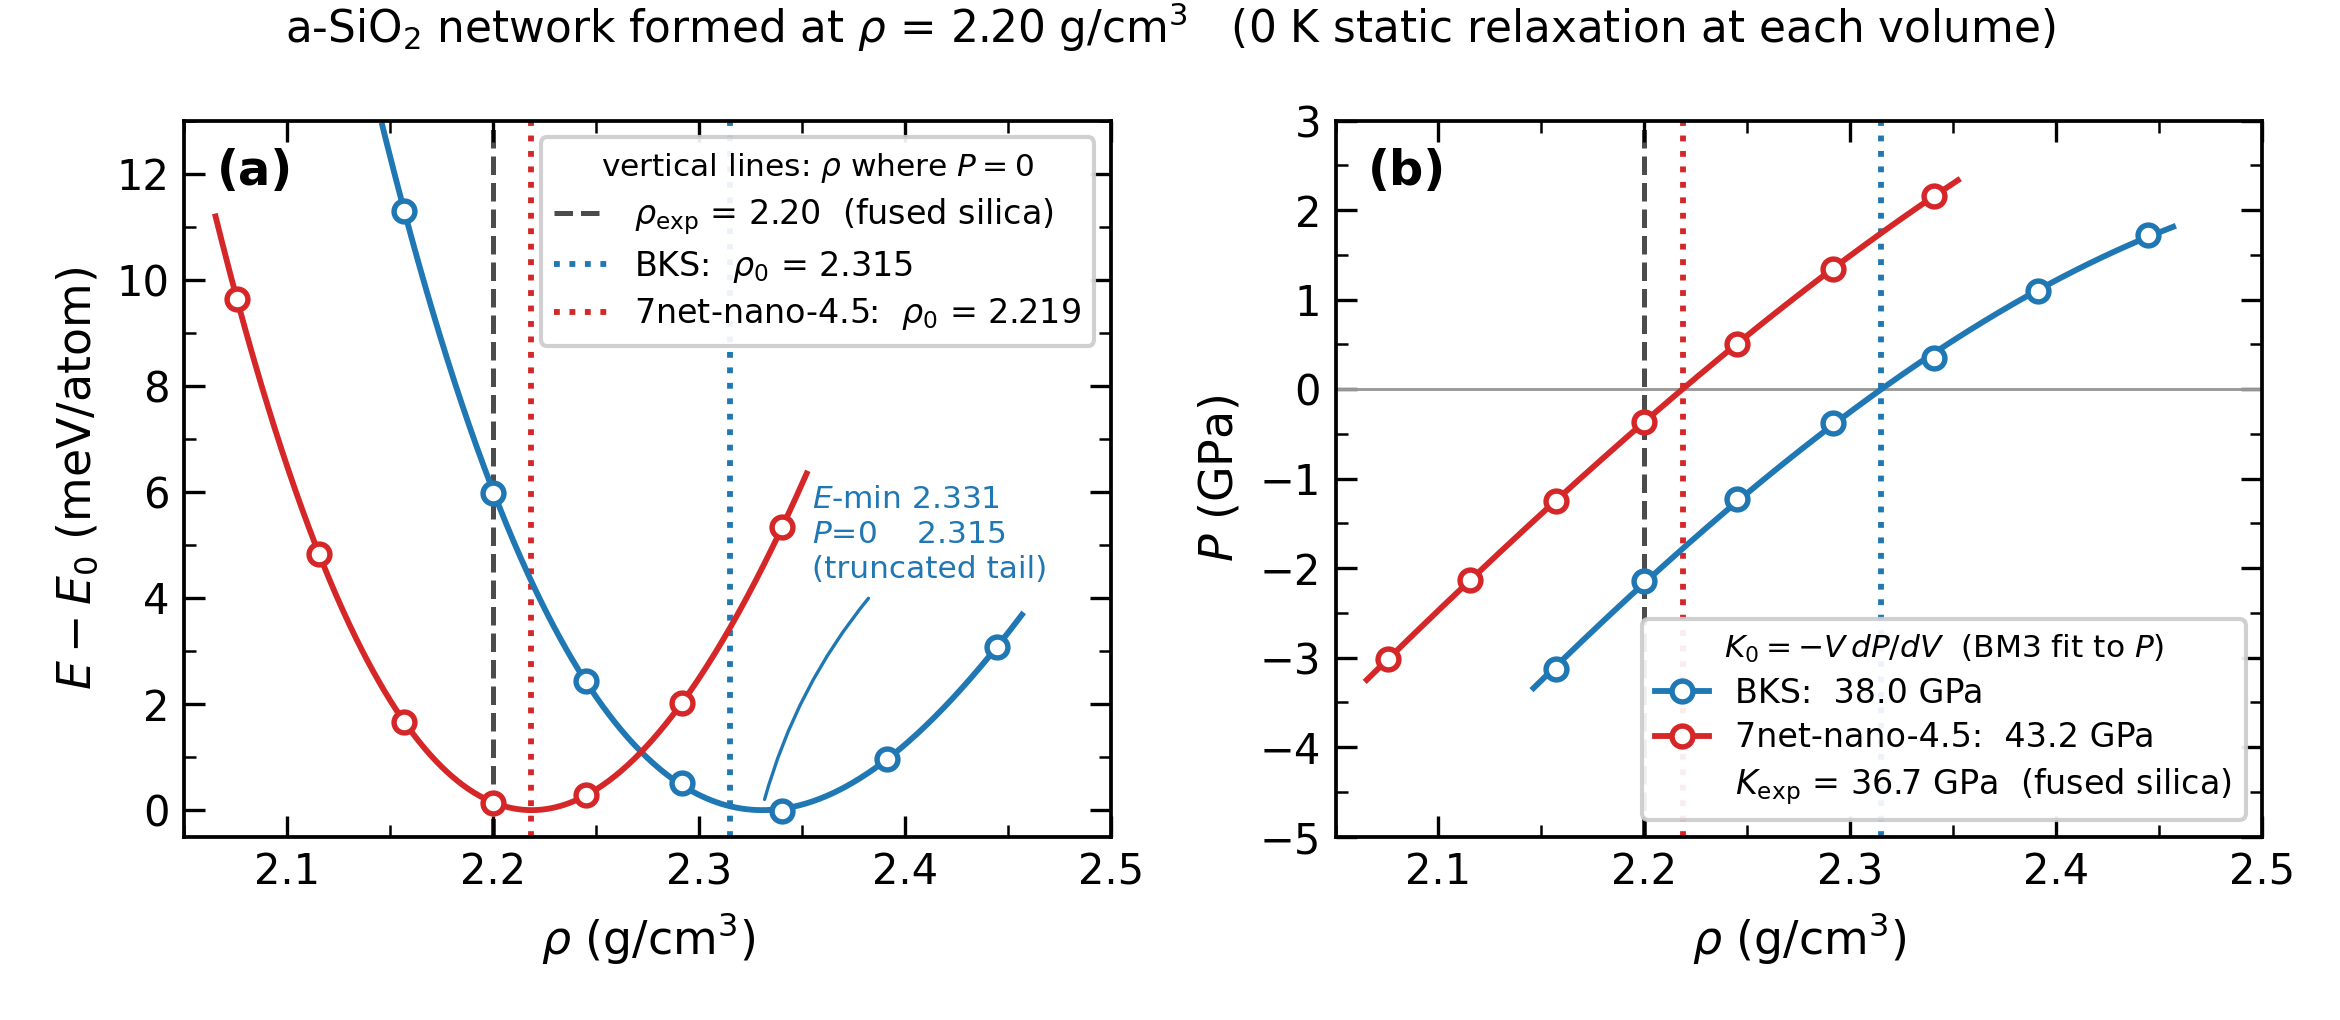
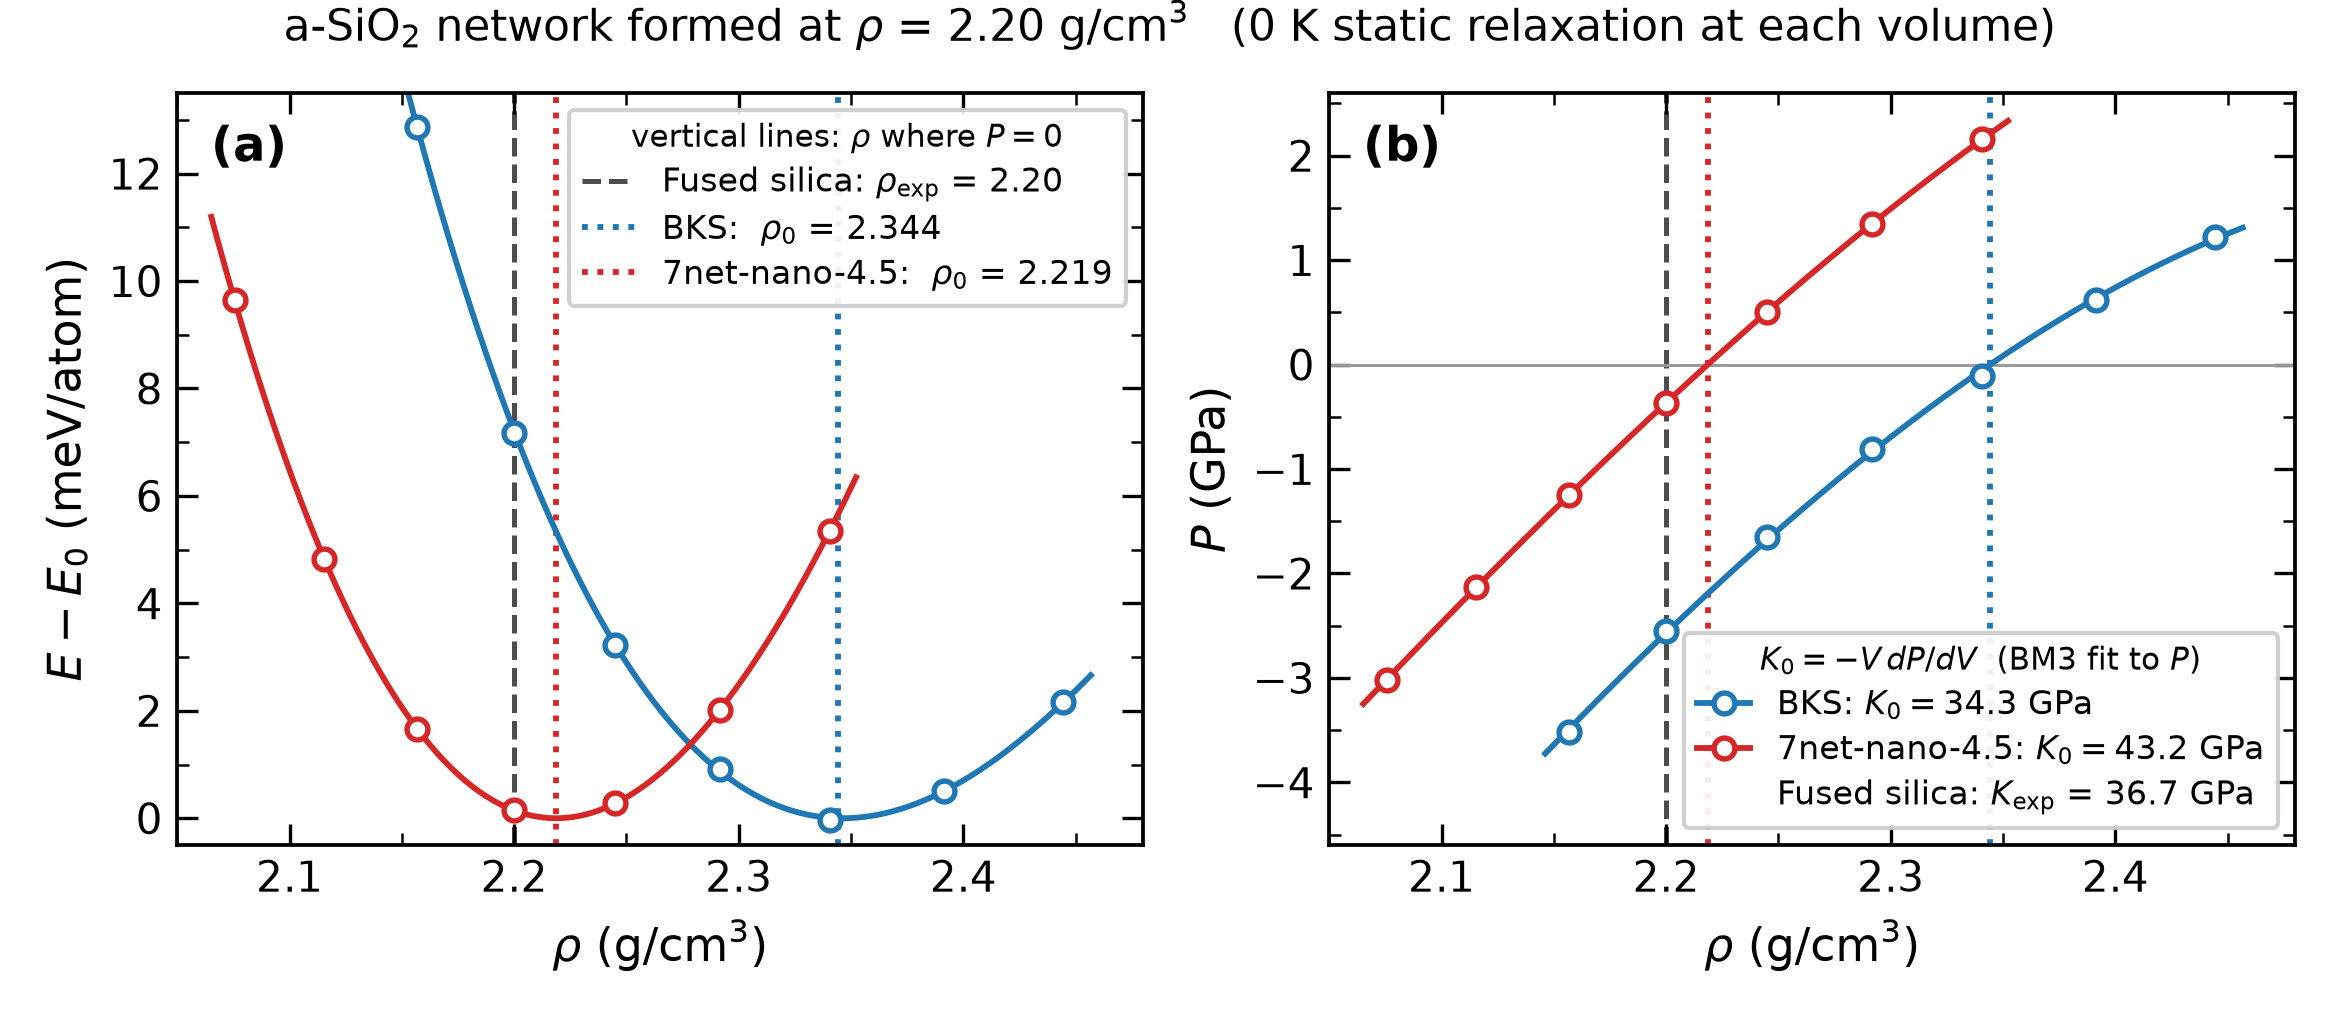
Switch BKS EOS reporting to tail-on; my tail-off argument was circular
I had chosen tail OFF on two grounds and both were wrong.

1. "The structure was made by a tail-off MD, so keep the same potential."
   Void: the tail correction is a function of V only and contributes nothing to
   forces. The maxf column is bit-identical between the two scans at all seven
   volumes, so the minimised structure at each volume is literally the same
   structure. Which MD produced the configuration is irrelevant to this
   calculation.

2. "Tail-off 0 K virial 2.3151 agrees with the 300 K NPT 2.3119 to 0.14 %."
   Circular: both use the same bookkeeping, so of course they agree. Had the NPT
   been run with the tail on it would have landed near 2.34 as well. Agreement
   within one convention is not evidence for that convention.

Positive case for tail ON:

3. BKS as published (van Beest 1990) has no cutoff. Truncating at 10 A is an
   implementation shortcut, and the tail correction restores what the truncation
   discarded rather than modifying the potential. Applying it when computing
   pressure with a truncated dispersion term is textbook practice.
4. The one objective quality metric available -- agreement between the
   independent E(V) and P(V) fits -- favours it strongly: rho0 0.673 % -> 0.087 %,
   K0 7.2 % -> 3.0 %.

Re-ran the 300 K NPT with the tail on (new in.npt_tail, 20 ps re-equilibration +
100 ps production, ~4 min) so the whole project uses one convention:
rho = 2.3401 averaged over the production run, 0.17 % from the 0 K virial value
[…]

diff --git a/04_analysis/src/fig_density.py b/04_analysis/src/fig_density.py
@@ -71,8 +71,11 @@ def bm3_P(V, V0, K0, Kp):            # bar 단위로 바로 뱉는다
 
 
 RUN = ROOT / "02_run/s2_relax"
-SET = [("BKS", "tab:blue", RUN / "ev_bks_scan.txt"),
+# ★ BKS 는 **tail 보정 켠 쪽**(ev_bks_scan_tail.txt)이 보고값이다. 근거는 위 docstring.
+#   tail off 원자료도 남아 있다(ev_bks_scan.txt) — 절단 관례의 계통오차 크기를 재는 용도.
+SET = [("BKS", "tab:blue", RUN / "ev_bks_scan_tail.txt"),
        ("7net-nano-4.5", "tab:red", RUN / "ev220_scan.txt")]
+RHO_BKS_NPT = 2.3401        # 300 K NPT (tail on) 100 ps 시간평균, in.npt_tail
 
 fit = {}
 for lab, col, fn in SET:
@@ -124,26 +127,19 @@ for lab, v in fit.items():
     a.plot(rho_of(v["V"]), (v["E"] - E0) / N * 1e3, "o", ms=5, mfc="w",
            mec=v["col"], mew=1.3, zorder=3)
 a.set_xlabel(r"$\rho$ (g/cm$^3$)"); a.set_ylabel(r"$E-E_0$ (meV/atom)")
-a.set_ylim(-0.5, 13)
+a.set_ylim(-0.5, 13.5)
 # 범례 핸들은 마커가 아니라 **세로선** 이다. 세 선이 무엇인지가 이 패널의 요점이므로.
 a.legend([hx[0], hline["BKS"], hline["7net-nano-4.5"]],
-         [rf"$\rho_{{\rm exp}}$ = {RHO_EXP:.2f}  (fused silica)",
+         [rf"Fused silica: $\rho_{{\rm exp}}$ = {RHO_EXP:.2f}",
           rf"BKS:  $\rho_0$ = {RHO0['BKS']:.3f}",
           rf"7net-nano-4.5:  $\rho_0$ = {RHO0['7net-nano-4.5']:.3f}"],
          loc="upper right", framealpha=0.92, fontsize=8, handlelength=1.6,
          borderpad=0.4, labelspacing=0.35,
          title=r"vertical lines: $\rho$ where $P=0$", title_fontsize=7.5)
 
-# ★ BKS 만 E 곡선의 최소(파란 점선의 오른쪽)가 P=0 위치와 어긋난다. 그게 절단 artifact 다.
-#   그림에 그대로 보이므로 오해하지 않도록 화살표로 명시한다. (7net 은 0.008 % 라 안 보인다)
-#   간격이 0.7 % 라 양방향 화살표로는 안 보인다 → 최소점을 지시선으로 가리키고 값을 적는다.
-rE_bks = rho_of(fit["BKS"]["pe"][1])
-a.annotate(f"$E$-min {rE_bks:.3f}\n$P$=0    {RHO0['BKS']:.3f}\n(truncated tail)",
-           xy=(rE_bks, 0.05), xytext=(2.355, 5.2),
-           fontsize=7.5, c="tab:blue", ha="left", va="center",
-           multialignment="left", linespacing=1.25,
-           arrowprops=dict(arrowstyle="-", lw=0.8, color="tab:blue",
-                           connectionstyle="arc3,rad=0.15"))
+# tail 보정 전에는 BKS 의 E 최소가 P=0 위치와 0.67 % 어긋나 눈에 보였고, 그걸 지시선으로
+# 표시했었다. 보정 후 0.087 % 로 줄어 육안 구분이 안 되므로 주석을 뺐다.
+# (절단 artifact 의 정량 논의는 RESULTS.md §2 와 02_run/s2_relax/NOTE.md 에.)
 
 # ---------- (b) P-V ----------
 b.axhline(0, ls="-", lw=0.7, c="0.6")
@@ -156,23 +152,27 @@ for lab, v in fit.items():
     # BKS 는 E(V)/P(V) 두 경로가 7.2 % 벌어져 계통오차가 통계오차의 20배다.
     # 그림에 ± 를 박으면 그 정밀도가 실재하는 것처럼 읽힌다. 불확도 논의는 RESULTS.md §2 에.
     b.plot([], [], "o-", c=v["col"], mfc="w", mew=1.3, ms=5,
-           label=rf"{lab}:  {K:.1f} GPa")
+           label=rf"{lab}: $K_0 =  {K:.1f}$ GPa")
 # rho_exp 는 (a) 범례가 이미 설명한다(같은 figure) → 중복 제거.
 # 대신 (a) 의 rho_exp 와 대칭이 되게 K_exp 를 적는다.
-b.plot([], [], " ", label=rf"$K_{{\rm exp}}$ = {K_EXP} GPa  (fused silica)")
+b.plot([], [], " ", label=rf"Fused silica: $K_{{\rm exp}}$ = {K_EXP} GPa")
 b.set_xlabel(r"$\rho$ (g/cm$^3$)"); b.set_ylabel(r"$P$ (GPa)")
-b.set_ylim(-5.0, 3.0)   # 범례 자리. 폰트를 줄이기보다 축을 넓히는 쪽 (가독성 우선)
+b.set_ylim(-4.6, 2.6)   # 범례 자리. 폰트를 줄이기보다 축을 넓히는 쪽 (가독성 우선)
 b.legend(loc="lower right", framealpha=0.92, fontsize=8, handlelength=1.6,
          borderpad=0.4, labelspacing=0.35,
          title=r"$K_0 = -V\,dP/dV$  (BM3 fit to $P$)", title_fontsize=7.5)
 
 for k, a_ in enumerate(ax):
-    a_.set_xlim(2.05, 2.50)   # 우측 여유 = (b) 범례, (a) 범례 자리
+    a_.set_xlim(2.05, 2.48)   # 우측 여유 = (b) 범례, (a) 범례 자리
     a_.xaxis.set_minor_locator(AutoMinorLocator(2))
     a_.yaxis.set_minor_locator(AutoMinorLocator(2))
     a_.text(0.035, 0.91, "(a)" if k == 0 else "(b)", transform=a_.transAxes,
             fontsize=11.5, fontweight="bold")
 
+# tail 보정 여부는 그림에 적지 않는다 — 결론(밀도·탄성률 3자 비교)에서 시선을 뺏는다.
+# 기록은 이 스크립트 docstring, RESULTS.md §2, s2_relax/NOTE.md 세 곳에 있다.
+# ※ 이 그림만 따로 슬라이드에 쓸 땐 구두로라도 "tail 보정 적용"을 언급할 것.
+#   문헌의 BKS 값과 비교할 때 관례가 다르면 K0 가 10 % 어긋난다.
 fig.suptitle(r"a-SiO$_2$ network formed at $\rho$ = 2.20 g/cm$^3$   "
              r"(0 K static relaxation at each volume)", fontsize=10.5, y=1.0)
 fig.tight_layout(rect=[0, 0, 1, 1.05])
@@ -198,3 +198,7 @@ print(f"실험 대비:  rho0  BKS {RHO0['BKS']:.4f} ({100*(RHO0['BKS']/RHO_EXP-1
 KB, K7 = fit["BKS"]["pp"][1]*EV2BAR/1e4, fit["7net-nano-4.5"]["pp"][1]*EV2BAR/1e4
 print(f"            K0    BKS {KB:.2f} ({100*(KB/K_EXP-1):+.1f} %)"
       f"   7net {K7:.2f} ({100*(K7/K_EXP-1):+.1f} %)     exp {K_EXP} GPa")
+print(f"\nMLIP 가 줄인 밀도 오차 배수: "
+      f"{abs(RHO0['BKS']/RHO_EXP-1)/abs(RHO0['7net-nano-4.5']/RHO_EXP-1):.1f}x")
+print(f"정합 확인: BKS 0 K virial {RHO0['BKS']:.4f} vs 300 K NPT {RHO_BKS_NPT:.4f}"
+      f"  ({100*abs(RHO_BKS_NPT/RHO0['BKS']-1):.2f} % — 열팽창 무시 가능)")

diff --git a/05_doc/STATUS.md b/05_doc/STATUS.md
@@ -15,7 +15,7 @@ BKS(고전 포텐셜)로 만든 비정질 SiO₂에 범용 MLIP **SevenNet-Nano*
 | S0 환경 구축 | **완료** — LAMMPS + `pair_style e3gnn` 빌드·검증·배포 |
 | S0′ 구조 재생성 | **완료** — 1차 melt-quench 실패 진단 후 ρ=2.20 고정 NVT로 재수행 |
 | S1 sanity + 속도 실측 | **완료** — 단일점, ASE 교차검증, 랭크 비교, 속도, cutoff 스윕, 병렬 확장성 |
-| S2′ 구조 이완 + E–V | **완료** — ρ₀ = 2.2187, K₀ = 43.1 GPa, virial 정합성 검증 |
+| S2′ 구조 이완 + E–V | **완료** — 7net ρ₀ 2.2185 / K₀ 43.2, BKS(tail on) 2.3442 / 34.3 |
 | S3′ RDF + 결합각 | **완료** — 300 K NVT 5 ps, g(r)·BAD·ring 통계, AIMD digitize 비교 |
 | S4 짧은 MD | 생략 (S3′가 대체) |
 | S5 정리 | **진행 중** — 그림 5장·RESULTS.md 완료, 남은 항목은 아래 |
@@ -61,12 +61,14 @@ BKS(고전 포텐셜)로 만든 비정질 SiO₂에 범용 MLIP **SevenNet-Nano*
 9. **melt-quench 는 부피고정 NVT 로, NPT 는 300 K 평형에서만.** 그리고 **MSD 로 완전 용융을
    검증할 것.** 1차 실패의 직접 원인 (`02_run/_v1_superseded/README.md`).
 10. conda `mlip` 환경을 지우면 `lmp_7net`이 libtorch를 못 찾아 **LAMMPS 재빌드** 필요.
-11. **잘린 고전 포텐셜의 EOS는 E(V)가 아니라 virial P(V)를 피팅할 것.**
-    BKS의 `−C/r⁶`는 10 Å에서 shift/tail 보정 없이 잘린다. 부피가 변하면 원자쌍이
-    cutoff를 넘나들며 E가 계단처럼 튀는데 virial은 그 계단을 못 봐서
-    **−dE/dV ≠ P_virial** 이 된다(실측 오프셋 −2,100 ~ −2,800 bar, 해석식 A/V²와 일치).
-    MLIP는 매끄러운 cutoff 함수를 쓰므로 해당 없음 — 7net은 두 경로가 0.4 % 일치.
-    확인용: `./run_ev_bks.sh 1` (LAMMPS 해석적 tail 보정 on).
+11. **잘린 고전 포텐셜로 EOS를 할 땐 (a) tail 보정을 켜고 (b) virial P(V)를 피팅할 것.**
+    BKS의 `−C/r⁶`를 10 Å에서 그냥 자르면 부피가 변할 때 원자쌍이 cutoff를 넘나들며
+    E가 계단처럼 튀는데 virial은 그 계단을 못 봐서 **−dE/dV ≠ P_virial** 이 된다
+    (실측 오프셋 평균 −2,415 bar). `pair_modify pair <style> tail yes` 로 −226 bar 까지 준다.
+    **tail 보정은 힘에 기여하지 않는다**(V만의 함수) — 구조는 그대로고 E·P 장부만 바뀐다.
+    LAMMPS가 더하는 값: E에 A/V, virial P에 **2A/V²** (2배인 게 핵심. 그 덕에 두 경로가 맞는다).
+    MLIP는 매끄러운 cutoff 함수를 써서 해당 없음 — 7net은 보정 없이도 두 경로가 0.4 % 일치.
+    ※ tail on/off로 BKS K₀가 34.3↔38.0 (10 %) 움직인다. 관례를 반드시 명시할 것.
 
 ## 비용 모델 (실측 기반, 2160원자)
 

diff --git a/02_run/s2_relax/NOTE.md b/02_run/s2_relax/NOTE.md
@@ -213,9 +213,16 @@ E_tail = A/V, **P_tail(virial) = 2A/V²** (A/V² 아님 — pairwise virial tail
 **E(V) 잔차는 55.7 meV 불변.** tail 항이 V 의 매끄러운 해석함수라 계통 오프셋만 지우고
 cutoff 를 넘나드는 계단 자체는 못 없앤다.
 
-**보고값 = tail OFF.** 구조를 만든 MD 와 같은 포텐셜이어야 하고, 0 K virial ρ₀ 2.3151 이
-자기 300 K NPT 2.3119 와 0.14 % 일치한다 (tail ON 2.3442 는 1.4 % 어긋남).
-→ ρ₀ = 2.3151, K₀ = 38.0 GPa. **단 K₀ 실질 불확도는 ±2 GPa** (tail on 34.3 ~ off 38.0).
+**보고값 = tail ON.** (처음엔 OFF 로 정했다가 정정. RESULTS.md §2 "어느 쪽을 보고하나" 참조)
+  - "구조를 만든 MD 가 tail off" 논거는 무효 — tail 은 V 만의 함수라 **힘에 기여하지 않는다.**
+    실제로 7점의 maxf 가 on/off 에서 비트 단위로 동일했다(구조가 문자 그대로 같다).
+  - "0 K virial 2.3151 이 300 K NPT 2.3119 와 0.14 % 일치" 논거는 **순환논법**이었다.
+    같은 장부끼리 맞는 건 당연하다.
+  - BKS 원논문에 cutoff 는 없다. 절단은 구현 편의고 tail 보정은 그걸 되돌리는 것이다.
+  - 유일한 객관적 지표(E/P 두 경로 일치)가 tail on 을 지지: 0.673 % -> 0.087 %.
+→ **ρ₀ = 2.3442, K₀ = 34.33 GPa.** 일관성을 위해 300 K NPT 도 tail on 으로 재실행
+  (`../s0_requench/in.npt_tail`, 3분) → 2.3401, 0 K virial 과 0.17 % 일치.
+**단 K₀ 실질 불확도는 ±2 GPa** (tail on 34.3 ~ off 38.0). 절단 관례 하나로 10 % 움직인다.
 
 ### 배운 것
 
@@ -224,3 +231,9 @@ cutoff 를 넘나드는 계단 자체는 못 없앤다.
 2. **잘린 포텐셜에서는 −dE/dV ≠ P_virial 이다.** EOS 는 virial P(V) 를 피팅할 것.
 3. **MLIP 의 매끄러운 cutoff 는 정확도가 아니라 미분가능성의 문제다.**
    7net 이 E–V 에서 18배 매끄러운 건 물리를 더 잘 알아서가 아니다. 실제로 K₀ 는 BKS 가 더 정확했다.
+4. **보고 관례를 정할 땐 근거가 순환인지 먼저 볼 것.** "우리 NPT 와 맞으니 맞다"는
+   같은 장부끼리의 비교라 아무것도 증명하지 않는다. 관례 선택은 **관례 밖의 근거**
+   (원논문 정의, 독립 경로 일치)로 해야 한다.
+5. **관례가 결과에 유리한 방향인지 소리 내어 확인할 것.** tail on 은 BKS 밀도를 나쁘게 만들어
+   "MLIP 가 이긴다"는 서사에 유리하다. 근거가 독립적으로 서 있어서 택한 것이지
+   결과가 좋아져서가 아니라는 걸 문서에 박아뒀다.
